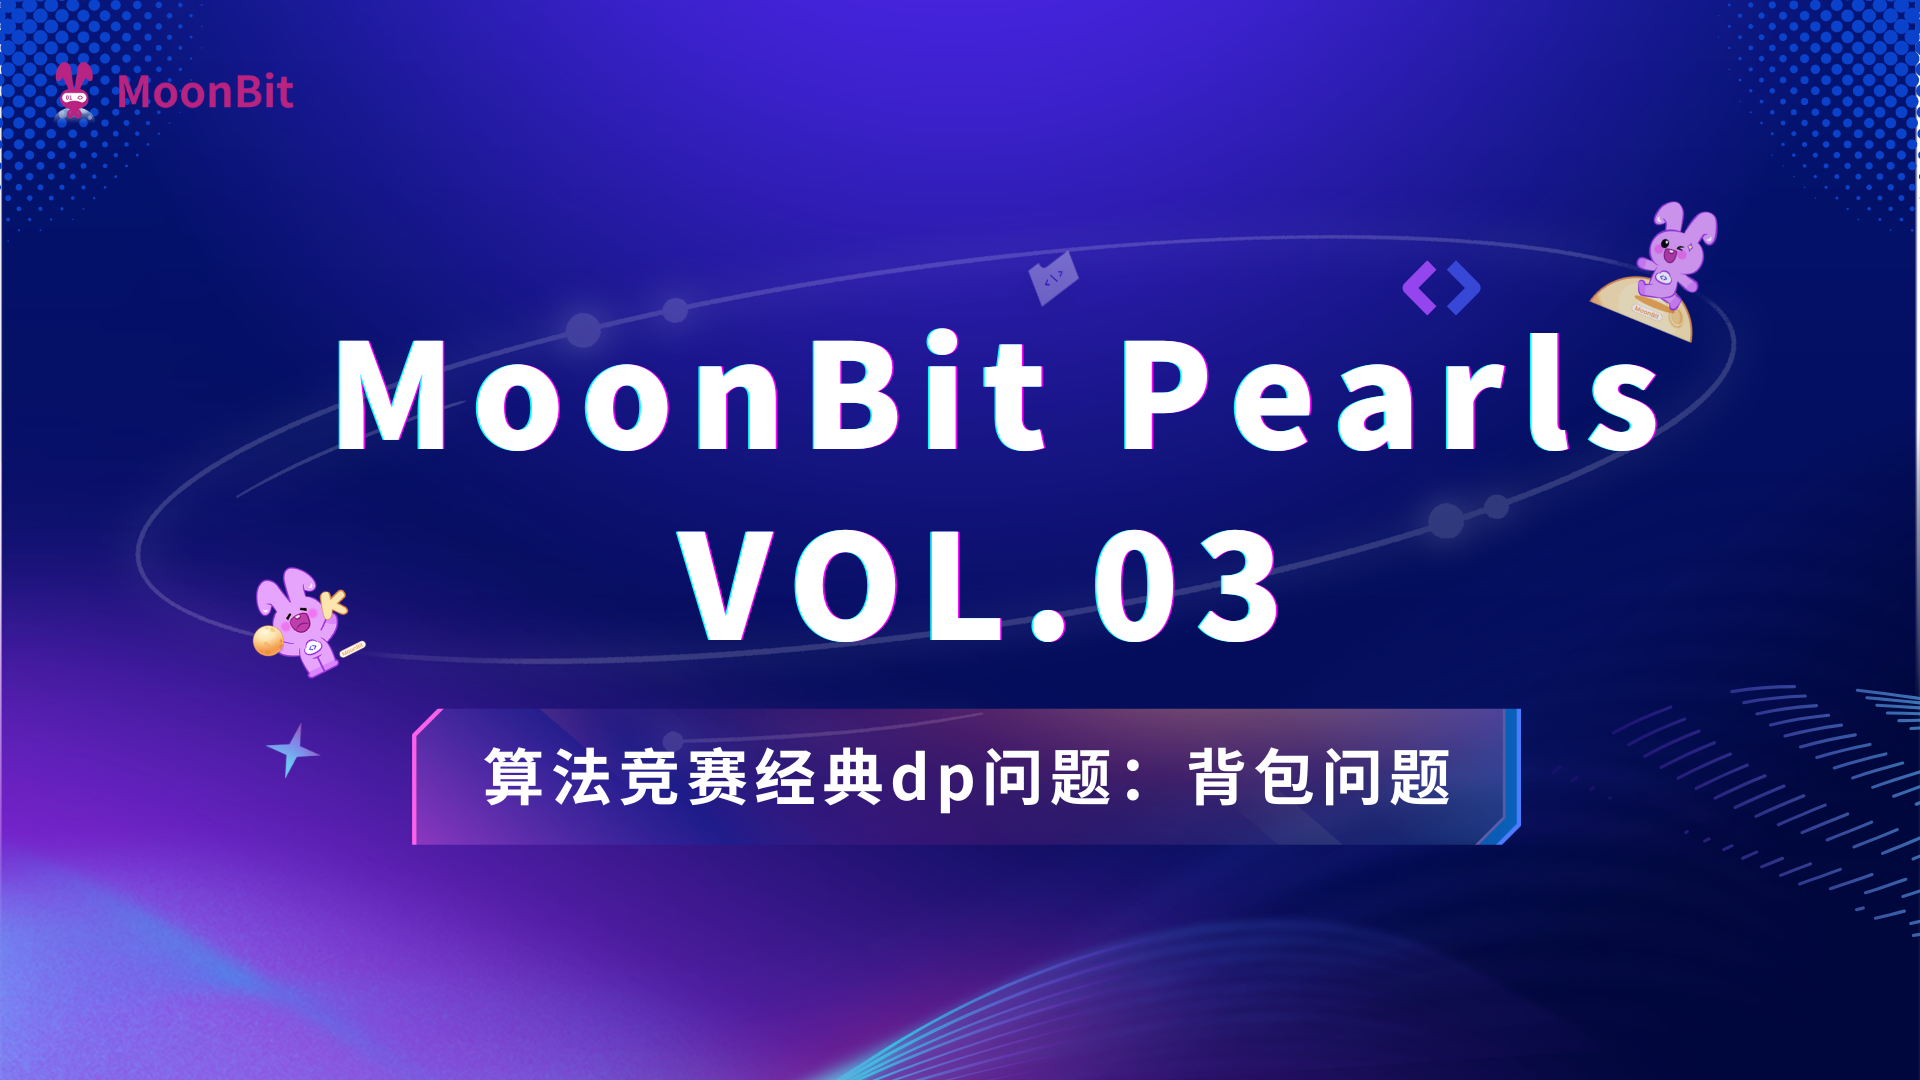
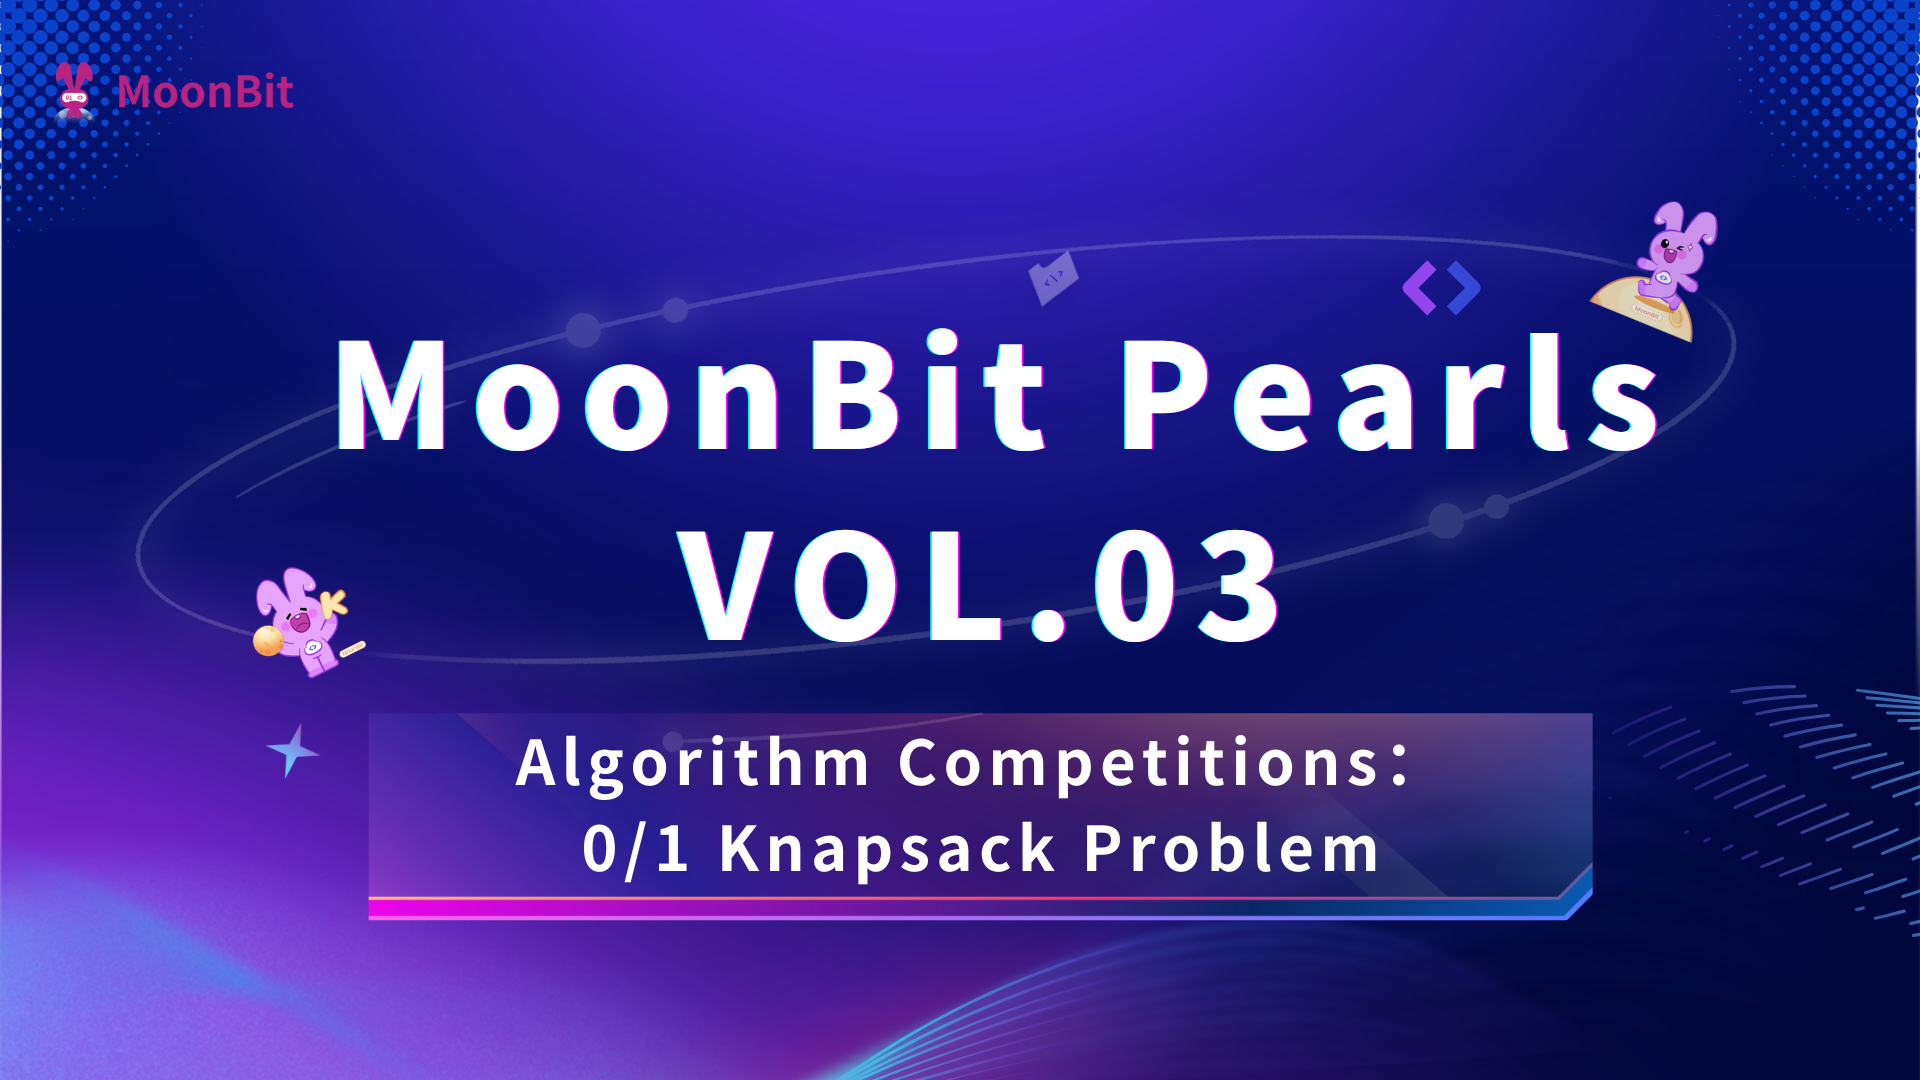
add en knapsack-problem blog

Changed region(s): [[0.1875, 0.6417, 0.8438, 0.8556]]

diff --git a/pearls/2025-07-03-knapsack-problem/index.mbt.md b/pearls/2025-07-03-knapsack-problem/index.mbt.md
@@ -1,3 +1,382 @@
 ---
-draft: true
+description: 01 Knapsack Problem
+slug: knapsack-problem
+image: cover.png
+tags: [MoonBit, Pearls]
 ---
+
+# 01 Knapsack Problem
+
+![](./cover.png)
+
+The 0/1 Knapsack Problem is a classic dynamic programming (DP) problem commonly found in **algorithm competitions.**
+This article presents five versions of the solution, starting from a basic brute-force approach and gradually evolving into a DP-based implementation.
+
+## Problem Definition
+
+There are several items, each with a`weight`and a `value`:
+
+```mbt
+struct Item {
+  weight : Int
+  value : Int
+}
+```
+
+Now, given a list of `items` (items) and a knapsack `capacity` (capacity), select a subset of the items such that the total weight does not exceed the knapsack capacity, and the total value is maximized.
+
+```mbt
+typealias @list.T as List
+
+let items_1 : List[Item] = @list.of([
+  { weight: 7, value: 20 },
+  { weight: 4, value: 10 },
+  { weight: 5, value: 11 },
+])
+```
+
+Take `items_1` as an example. If the knapsack capacity is 10, the optimal solution is to select the last two items. Their combined weight is 4 + 5 = 9, and their total value is 10 + 11 = 21.
+
+Note that items cannot be split. Therefore, greedily selecting the item with the highest value-to-weight ratio does not always yield the correct result.
+
+For example, in the case above, if we pick only the first item (which has the highest ratio), we get 20 points in total, but the knapsack will be full and no other items can be added.
+
+## Problem Modeling
+
+First, we define some basic objects and operations.
+
+```mbt
+//A combination of items, referred to as "combination" throughout the article
+struct Combination {
+  items : List[Item]
+  total_weight : Int
+  total_value : Int
+}
+
+//An empty combination
+let empty_combination : Combination = {
+  items: @list.empty(),
+  total_weight: 0,
+  total_value: 0,
+}
+
+//Add an item to a combination and return a new combination
+fn Combination::add(self : Combination, item : Item) -> Combination {
+  {
+    items: self.items.add(item),
+    total_weight: self.total_weight + item.weight,
+    total_value: self.total_value + item.value,
+  }
+}
+
+//Two combinations are considered equal if they have the same total value
+impl Eq for Combination with op_equal(self, other) {
+  self.total_value == other.total_value
+}
+
+//Compare two combinations by their total value
+impl Compare for Combination with compare(self, other) {
+  self.total_value.compare(other.total_value)
+}
+```
+
+Now, we can begin thinking about how to solve the problem.
+
+## 1.Naive Enumeration
+
+Enumeration is the most straightforward approach. By following the problem definition step by step, we can arrive at a solution:
+
+1. Enumerate all possible combinations;
+2. Filter out only the valid combinations-those that fit in the knapsack;
+3. Select the one with the maximum total value.
+
+Thanks to the two functions provided by our modeling, we can translate the three steps above directly into MoonBit code. The `all_combinations` function, which we'll implement later, has the type`(List[Item]) -> List[Combination]`.
+
+```mbt
+fn solve_v1(items : List[Item], capacity : Int) -> Combination {
+  all_combinations(items)
+  .filter(fn(comb) { comb.total_weight <= capacity })
+  .unsafe_maximum()
+}
+```
+
+Note that we use `unsafe_maximum` instead of `maximum` because we're taking the maximum of a non-empty list, and in this case, maximum will not return `None`.Since the problem guarantees that a solution exists (as long as `capacity` is non-negative), we can safely use `unsafe_maximum`. It skips the empty-list check but implicitly assumes the result will exist.
+
+Now let's implement the enumeration step.Suppose `all_combinations` takes a list of items and returns a list of combinations, each representing a possible subset of those items.
+If this seems unclear at first, we can begin by looking at the definition of the list structure, which looks roughly like this:
+
+```moombit
+enum List[A] {
+  Empty
+  More(A, tail~ : List[A])
+}
+```
+
+In other words, a list has two possible forms:
+
+1. An empty list, represented as `Empty`;
+2. A non-empty list, represented as `More`, which contains the first element (`A`) and the rest of the list (`tail: List[A]`), which is itself also a list.
+
+This structure gives us a hint for how to recursively build combinations:
+
+- If the item list is empty, the only possible combination is the empty combination;
+- Otherwise, there must be a first item `item1` and a remaining list `items_tail`. In this case, we can:
+  1. Recursively compute all combinations of `items_tail`, which represent combinations that do **not** include `item1`;
+  2. For each of those, add `item1` to form new combinations that **do** include it;
+  3. Merge both sets to obtain all combinations of the original `items` list.
+
+For example, if the item list is `a, b, c`, then the combinations can be divided into two parts:
+
+| Without a  | With a (by adding a to the left side) |
+| ---------- | ------------------------------------- |
+| \{ \}      | \{ a \}                               |
+| \{ b \}    | \{ a, b \}                            |
+| \{ c \}    | \{ a, c \}                            |
+| \{ b, c \} | \{ a, b, c \}                         |
+
+```mbt
+fn all_combinations(items : List[Item]) -> List[Combination] {
+  match items {
+    Empty => @list.singleton(empty_combination)
+    More(item1, tail=items_tail) => {
+      let combs_without_item1 = all_combinations(items_tail)
+      let combs_with_item1 = combs_without_item1.map(_.add(item1))
+      combs_with_item1 + combs_without_item1
+    }
+  }
+}
+```
+
+By using pattern matching (`match`), we've translated the five lines of logic above into MoonBit code for the first time, line by line.
+
+## 2.Early Filtering: Enumerate Only Valid Combinations
+
+In the first version, generating all combinations and filtering out those that fit in the knapsack were two separate steps.During the enumeration process, many invalid combinations were generated-combinations that had already exceeded the knapsack capacity but were still extended with more items.If we filter them earlier, we can avoid generating many unnecessary combinations on top of invalid ones, which is clearly more efficient.Looking at the code, we see that invalid combinations are only produced during `.map(_.add(item1))`.So we can optimize by only adding `item1` to combinations that can still fit it.
+
+We now rename `all_combinations` to `all_combinations_valid`, which returns only combinations that can actually fit in the knapsack. The generation and filtering processes are now interleaved.
+
+```mbt
+fn all_combinations_valid(
+  items : List[Item],
+  capacity : Int // Add capacity as a parameter because filtering requires it
+) -> List[Combination] {
+  match items {
+    Empty => @list.singleton(empty_combination) // An empty combination is always valid
+    More(item1, tail=items_tail) => {
+      // Recursively obtain combinations without this item (by assumption, all valid)
+      let valid_combs_without_item1 = all_combinations_valid(
+        items_tail, capacity,
+      )
+      // Add item1 to valid combinations that can still hold it
+      let valid_combs_with_item1 = valid_combs_without_item1
+        .filter(fn(comb) { comb.total_weight + item1.weight <= capacity })
+        .map(_.add(item1))
+      // Both parts are valid, so we return their union
+      valid_combs_with_item1 + valid_combs_without_item1
+    }
+  }
+}
+```
+
+This structure naturally supports inductive reasoning, making it easy to prove the correctness of `all_combinations_valid`-it indeed returns only valid combinations.
+
+Since `all_combinations_valid` already returns only valid combinations, we no longer need to filter in `solve`.We simply remove the `filter` from `solve`:
+
+```mbt
+fn solve_v2(items : List[Item], capacity : Int) -> Combination {
+  all_combinations_valid(items, capacity).unsafe_maximum()
+}
+```
+
+## 3.Maintain Order to Enable Early Termination
+
+In the previous version, to construct new combinations, we needed to iterate over every combination in `valid_combs_without_item1`.
+
+But we can observe: if `item1` cannot be added to a certain combination, then it definitely cannot be added to any combination with a greater total weight than that one.
+In other words, if `valid_combs_without_item1` is sorted in ascending order of total weight, then we don't need to traverse it entirely during filtering.
+
+During filtering, as soon as we encounter a combination that can't fit `item1`, we can immediately discard the remaining combinations.Since this logic is common, the standard library provides a function called `take_while`, which we use to replace `filter`.
+
+To make `valid_combs_without_item1` sorted, we could use a sorting algorithm-but that would require traversing the entire list, which defeats the purpose.Therefore, we adopt a different approach: ensure that the list returned by `all_combinations_valid` is already sorted in ascending order.
+
+This requires a leap of faith via recursion:
+
+```mbt
+fn all_combinations_valid_ordered(
+  items : List[Item],
+  capacity : Int
+) -> List[Combination] {
+  match items {
+    Empty => @list.singleton(empty_combination) // A single-element list is naturally in ascending order.
+    More(item1, tail=items_tail) => {
+      // We assume that all_combinations_valid_ordered returns a list sorted in ascending order (inductive hypothesis).
+      let valid_combs_without_item1 = all_combinations_valid_ordered(
+        items_tail, capacity,
+      )
+      // Then valid_combs_with_item1 is also in ascending order, because taking a prefix of an ascending list and adding the same weight to each element still yields an ascending list by total weight.
+      let valid_combs_with_item1 = valid_combs_without_item1
+        .take_while(fn(comb) { comb.total_weight + item1.weight <= capacity })
+        .map(_.add(item1))
+      // Now, we only need to ensure that the merged result is also sorted in ascending order to maintain our initial assumption.
+      merge_keep_order(valid_combs_with_item1, valid_combs_without_item1)
+    }
+  }
+}
+```
+
+The final task is to implement the function `merge_keep_order`, which merges two ascending lists into one ascending list:
+
+```mbt
+fn merge_keep_order(
+  a : List[Combination],
+  b : List[Combination]
+) -> List[Combination] {
+  match (a, b) {
+    (Empty, another) | (another, Empty) => another
+    (More(a1, tail=a_tail), More(b1, tail=b_tail)) =>
+      // If a1 is lighter than b1, and b1 is part of an ascending list, then:
+      //   a1 is lighter than all combinations in b
+      // Since list a is also in ascending order
+      //   a1 is also lighter than all combinations in a_tail
+      // Therefore, a1 is the smallest among all elements in a and b
+      if a1.total_weight < b1.total_weight {
+        // We first recursively merge the rest of the list, then prepend a1
+        merge_keep_order(a_tail, b).add(a1)
+      } else { //
+        merge_keep_order(a, b_tail).add(b1)
+      }
+  }
+}
+```
+
+Although it might seem a bit verbose, I still want to point this out: by following a case-based analysis aligned with the structure of the code, it's actually easy to prove the correctness of `all_combinations_valid_ordered` and `merge_keep_order` - they do return a sorted list.
+
+For an ascending list, the maximum element is simply the last one. So we replaced `unsafe_maximum` with `unsafe_last`.
+
+```mbt
+fn solve_v3(items : List[Item], capacity : Int) -> Combination {
+  all_combinations_valid_ordered(items, capacity).unsafe_last()
+}
+```
+
+Looking back, this version of the optimization might not seem like a big win - after all, we still have to traverse the entire list during the merge. That was my initial impression too, but I later discovered something unexpected.
+
+## 4.Removing Redundant Combinations with Equal Weights for Optimal Time Complexity
+
+So far, the optimizations we've made haven't addressed time complexity, but they've laid the groundwork for this next step. Now let's consider the algorithm's time complexity.
+
+In the worst case (e.g., when the knapsack is large enough to hold everything), the combination list returned by `all_combinations` can contain up to $2^{number of items}$ elements. This results in an exponential time complexity, especially since all_combinations is called multiple times, each time returning a potentially large list.
+
+To reduce the time complexity, we need to limit the length of the candidate combination list. This is based on a simple observation: if two combinations have the same total weight, the one with the higher total value is always better. Therefore, we don't need to keep both in the list.
+
+By eliminating these redundant combinations, the list length will never exceed the knapsack's capacity (thanks to the pigeonhole principle). This optimization reduces the algorithm's time complexity to $\mathcal{O}(number of items \times capacity)$. Upon reviewing the code, the only place where redundant combinations may still be introduced is the else branch of merge_keep_order. To prevent this, we just need to make a small modification to that section.
+
+```mbt
+fnalias @math.maximum
+
+fn merge_keep_order_and_dedup(
+  a : List[Combination],
+  b : List[Combination]
+) -> List[Combination] {
+  match (a, b) {
+    (Empty, another) | (another, Empty) => another
+    (More(a1, tail=a_tail), More(b1, tail=b_tail)) =>
+      if a1.total_weight < b1.total_weight {
+        merge_keep_order_and_dedup(a_tail, b).add(a1)
+      } else if a1.total_weight > b1.total_weight {
+        merge_keep_order_and_dedup(a, b_tail).add(b1)
+      } else { // "In this case, a1 and b1 have the same weight, creating a duplicate. We keep the one with the higher total value."
+        let better = maximum(a1, b1)
+        merge_keep_order_and_dedup(a_tail, b_tail).add(better)
+      }
+  }
+}
+```
+
+Simply replace the corresponding parts with `all_combinations_valid_ordered_nodup` (arguably the longest function name I've ever written) and `solve_v4`.
+
+```mbt
+fn all_combinations_valid_ordered_nodup(
+  items : List[Item],
+  capacity : Int
+) -> List[Combination] {
+  match items {
+    Empty => @list.singleton(empty_combination)
+    More(item1, tail=items_tail) => {
+      let combs_without_item1 = all_combinations_valid_ordered_nodup(
+        items_tail, capacity,
+      )
+      let combs_with_item1 = combs_without_item1
+        .take_while(fn(comb) { comb.total_weight + item1.weight <= capacity })
+        .map(_.add(item1))
+      merge_keep_order_and_dedup(combs_with_item1, combs_without_item1)
+    }
+  }
+}
+
+fn solve_v4(items : List[Item], capacity : Int) -> Combination {
+  all_combinations_valid_ordered_nodup(items, capacity).unsafe_last()
+}
+```
+
+At this point, we've essentially reinvented the dynamic programming solution for the 0/1 knapsack problem.
+
+## Conclusion
+
+This article's content came from a sudden idea I had one morning while lying in bed. From the first to the fourth version, all code was written entirely on my phone without any debugging-yet correctness was easily guaranteed. Compared to conventional solutions often seen in algorithm competitions, the functional programming style used here brings the following advantages:
+
+1. **No loops, only recursion and structural decomposition.** To extract elements from a list, pattern matching (`match`) is required, which naturally prompts consideration of empty cases and expresses intent more clearly than initializing a DP array.
+2. **Composition of higher-order functions.** Standard functions like `filter`, `take_while`, `map`, and `maximum` replace boilerplate loops (`for`, `while`), making the traversal purpose clearer at a glance.
+3. **Declarative code.** The later versions of the solution are direct translations of the first one. Rather than just implementing a solution, the code _describes_ the problem itself. This ensures the correctness of the first version. Each subsequent improvement was made without affecting the correctness, allowing for a safe and iterative process.
+
+Of course, this solution doesn't apply state space compression, so a tradeoff between readability and efficiency remains. The functional style is slightly idealistic but still leaves room for many optimizations. A future direction would be to convert the list structure into a tree, exploiting the fact that functions only pass two argument groups throughout execution-possibly even a single value. This could reduce space complexity to O(capacity), though it's beyond the scope of this article. We believe the approach here offers a beginner-friendly and understandable way to write correct code.
+
+## Appendix
+
+### Further Optimization Details
+
+Given that the order of items does not affect the total value of the result, we can convert `all_combinations` into a tail-recursive version.
+
+Additionally, since the list produced by `take_while` is immediately discarded after being passed to `map`, certain syntax-level techniques can be used to avoid creating this temporary list altogether.
+
+```mbt
+fn all_combinations_loop(
+  items : List[Item],
+  capacity : Int
+) -> List[Combination] {
+  loop items, @list.singleton(empty_combination) {
+    Empty, combs_so_far => combs_so_far
+    More(item1, tail=items_tail), combs_so_far => {
+      let combs_without_item1 = combs_so_far
+      let combs_with_item1 = combs_without_item1
+        .iter()
+        .take_while(fn(comb) { comb.total_weight + item1.weight <= capacity })
+        .map(_.add(item1))
+        |> @list.from_iter
+      continue items_tail,
+        merge_keep_order_and_dedup(combs_with_item1, combs_without_item1)
+    }
+  }
+}
+
+fn solve_v5(items : List[Item], capacity : Int) -> Combination {
+  all_combinations_loop(items, capacity).unsafe_last()
+}
+```
+
+### Side Notes
+
+1. In the first version, the `Combination` generated by `all_combinations(items)` even contains one more node than `More`, making it a true master of linked list node reuse.
+2. An ascending order can't be treated as "broken" order, so the corresponding `take_while` must be converted to `drop_while`. When using an array, we can directly cut segments via `binary_search` on indices.
+3. If you're interested, consider how to generalize the above approach to [various other knapsack problems](https://oi-wiki.org/dp/knapsack/).
+4. The original name of `all_combinations_loop` was: `generate_all_ordered_combination_that_fit_in_backpack_list_without_duplicates_using_loop`.
+
+### Test
+
+```mbt
+test {
+  for solve in [solve_v1, solve_v2, solve_v3, solve_v4, solve_v5] {
+    assert_eq(solve(items_1, 10).total_value, 21)
+  }
+}
+```
